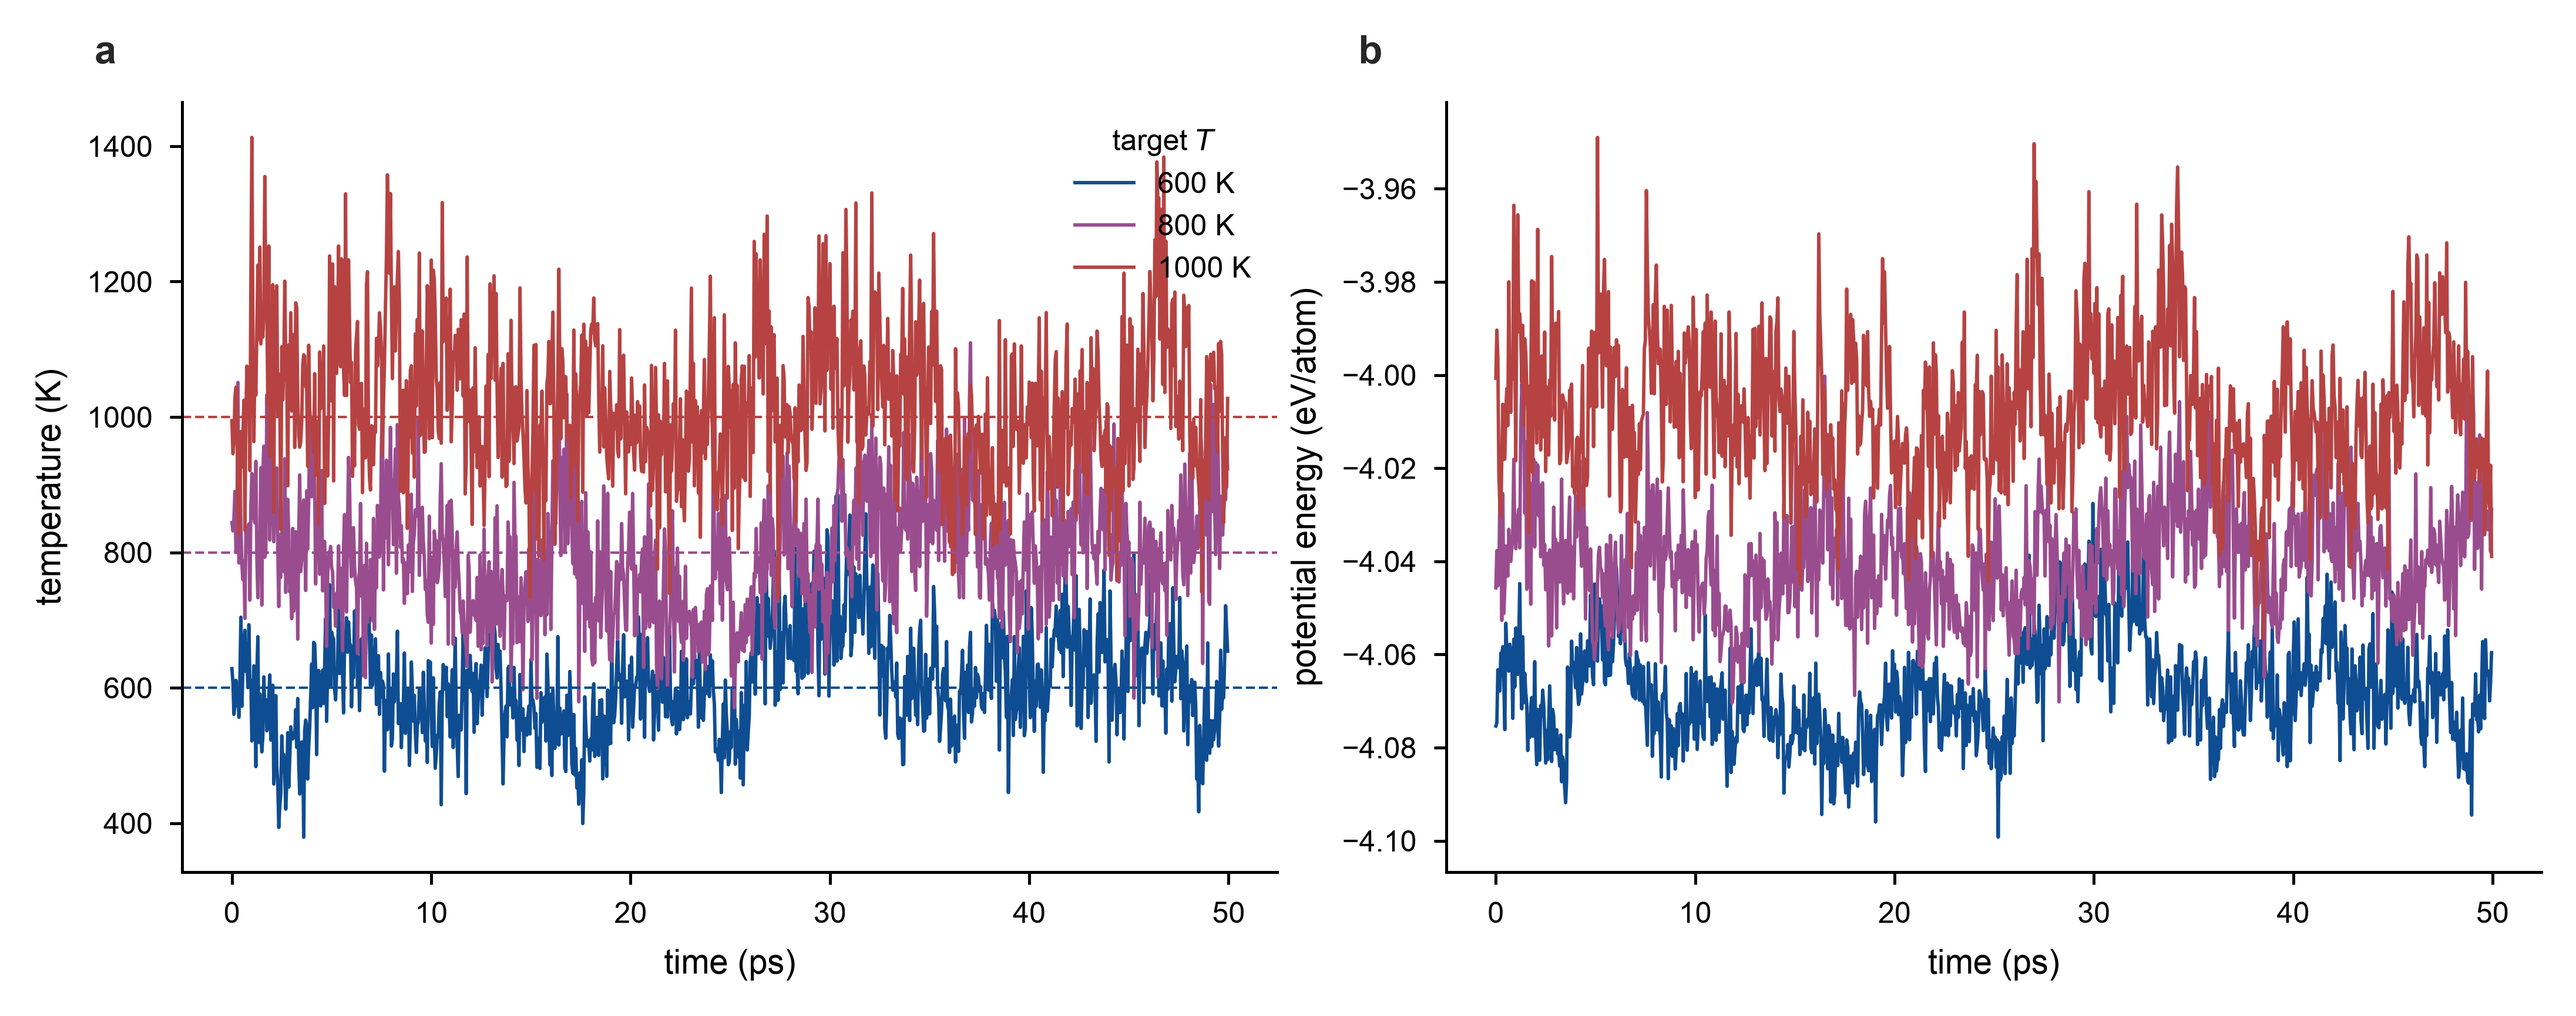
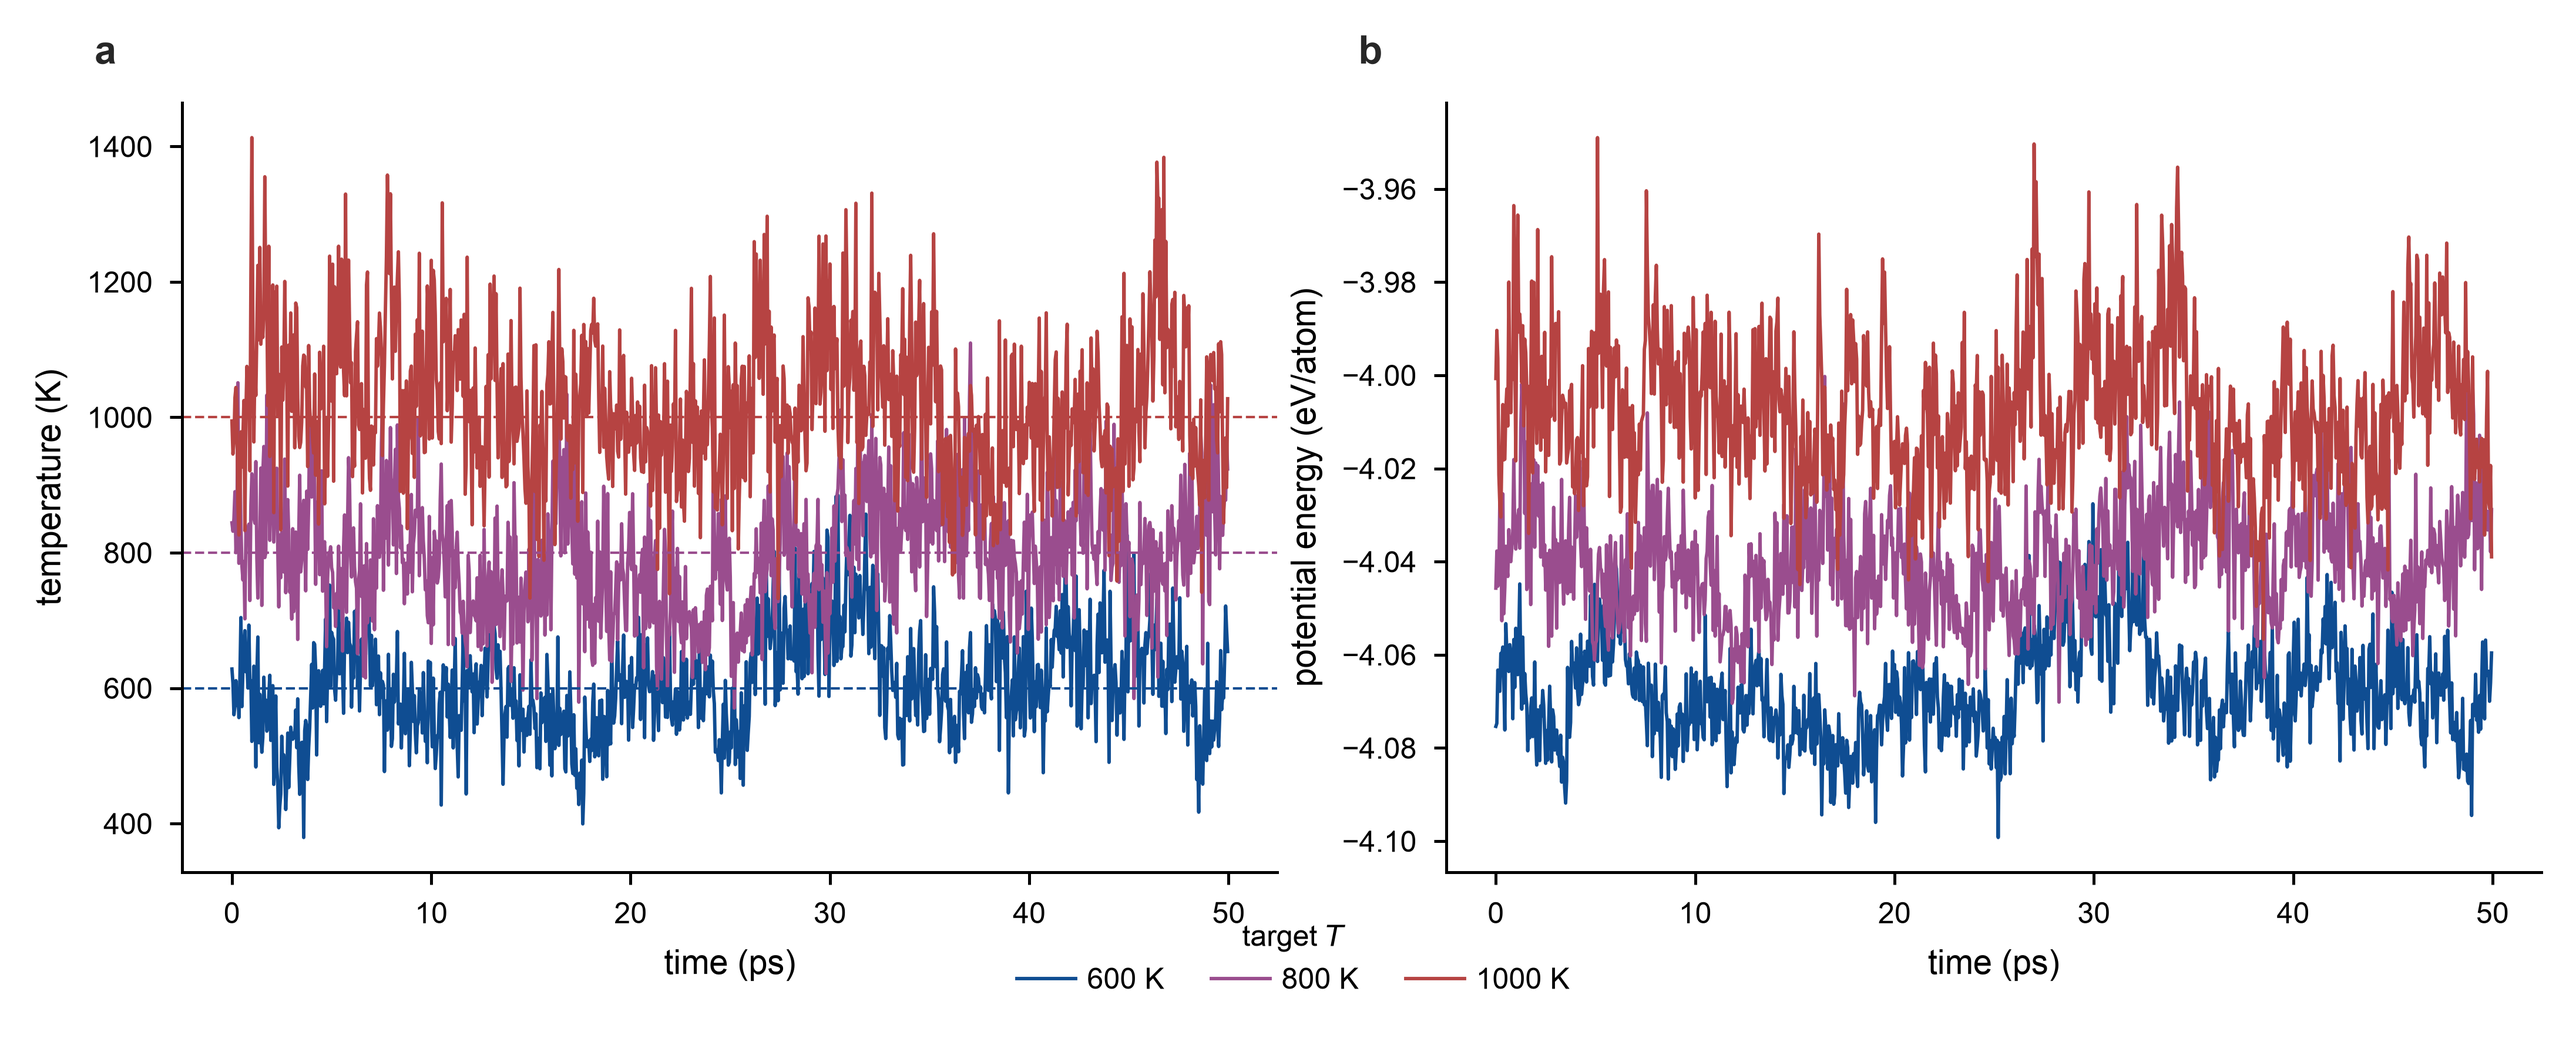
Project 2: move 02 MD-stability legend below panels (was overlapping the 1000 K trace)
The temperature/energy traces fill the whole frame, so the frameless "target T"
legend at upper-right sat on top of the red 1000 K trace. Moved it to a shared
frameless strip below both panels (mirrors 01's element legend) — no curve overlap.

diff --git a/02_baseline_md.py b/02_baseline_md.py
@@ -59,9 +59,13 @@ def _plot_md(records, mlip, fig_dir, tag=""):
         axes[0].axhline(T, ls="--", lw=0.5, color=TEMP_COLORS.get(T, pstyle.PALETTE["neutral_mid"]))
     axes[0].set(xlabel="time (ps)", ylabel="temperature (K)")
     axes[1].set(xlabel="time (ps)", ylabel="potential energy (eV/atom)")
-    axes[0].legend(title="target $T$", title_fontsize=pstyle.FS_LEGEND, loc="upper right")
     for ax, ltr in zip(axes, "ab"):
         pstyle.add_panel_label(ax, ltr)
+    # traces fill the frame -> put the T legend BELOW both panels so it never overlaps a curve
+    handles, labels = axes[0].get_legend_handles_labels()
+    fig.legend(handles, labels, title="target $T$", title_fontsize=pstyle.FS_LEGEND,
+               fontsize=pstyle.FS_LEGEND, loc="lower center", ncol=len(labels),
+               frameon=False, columnspacing=1.6, handletextpad=0.4, bbox_to_anchor=(0.5, -0.02))
     out = os.path.join(fig_dir, f"02_md_stability_{mlip}{tag}.png")
     pstyle.save_source_data(out, ["temperature_K", "mean_T_K", "std_T_K",
                                   "mean_E_per_atom_eV", "drift_meV_atom_ps"], rows)
